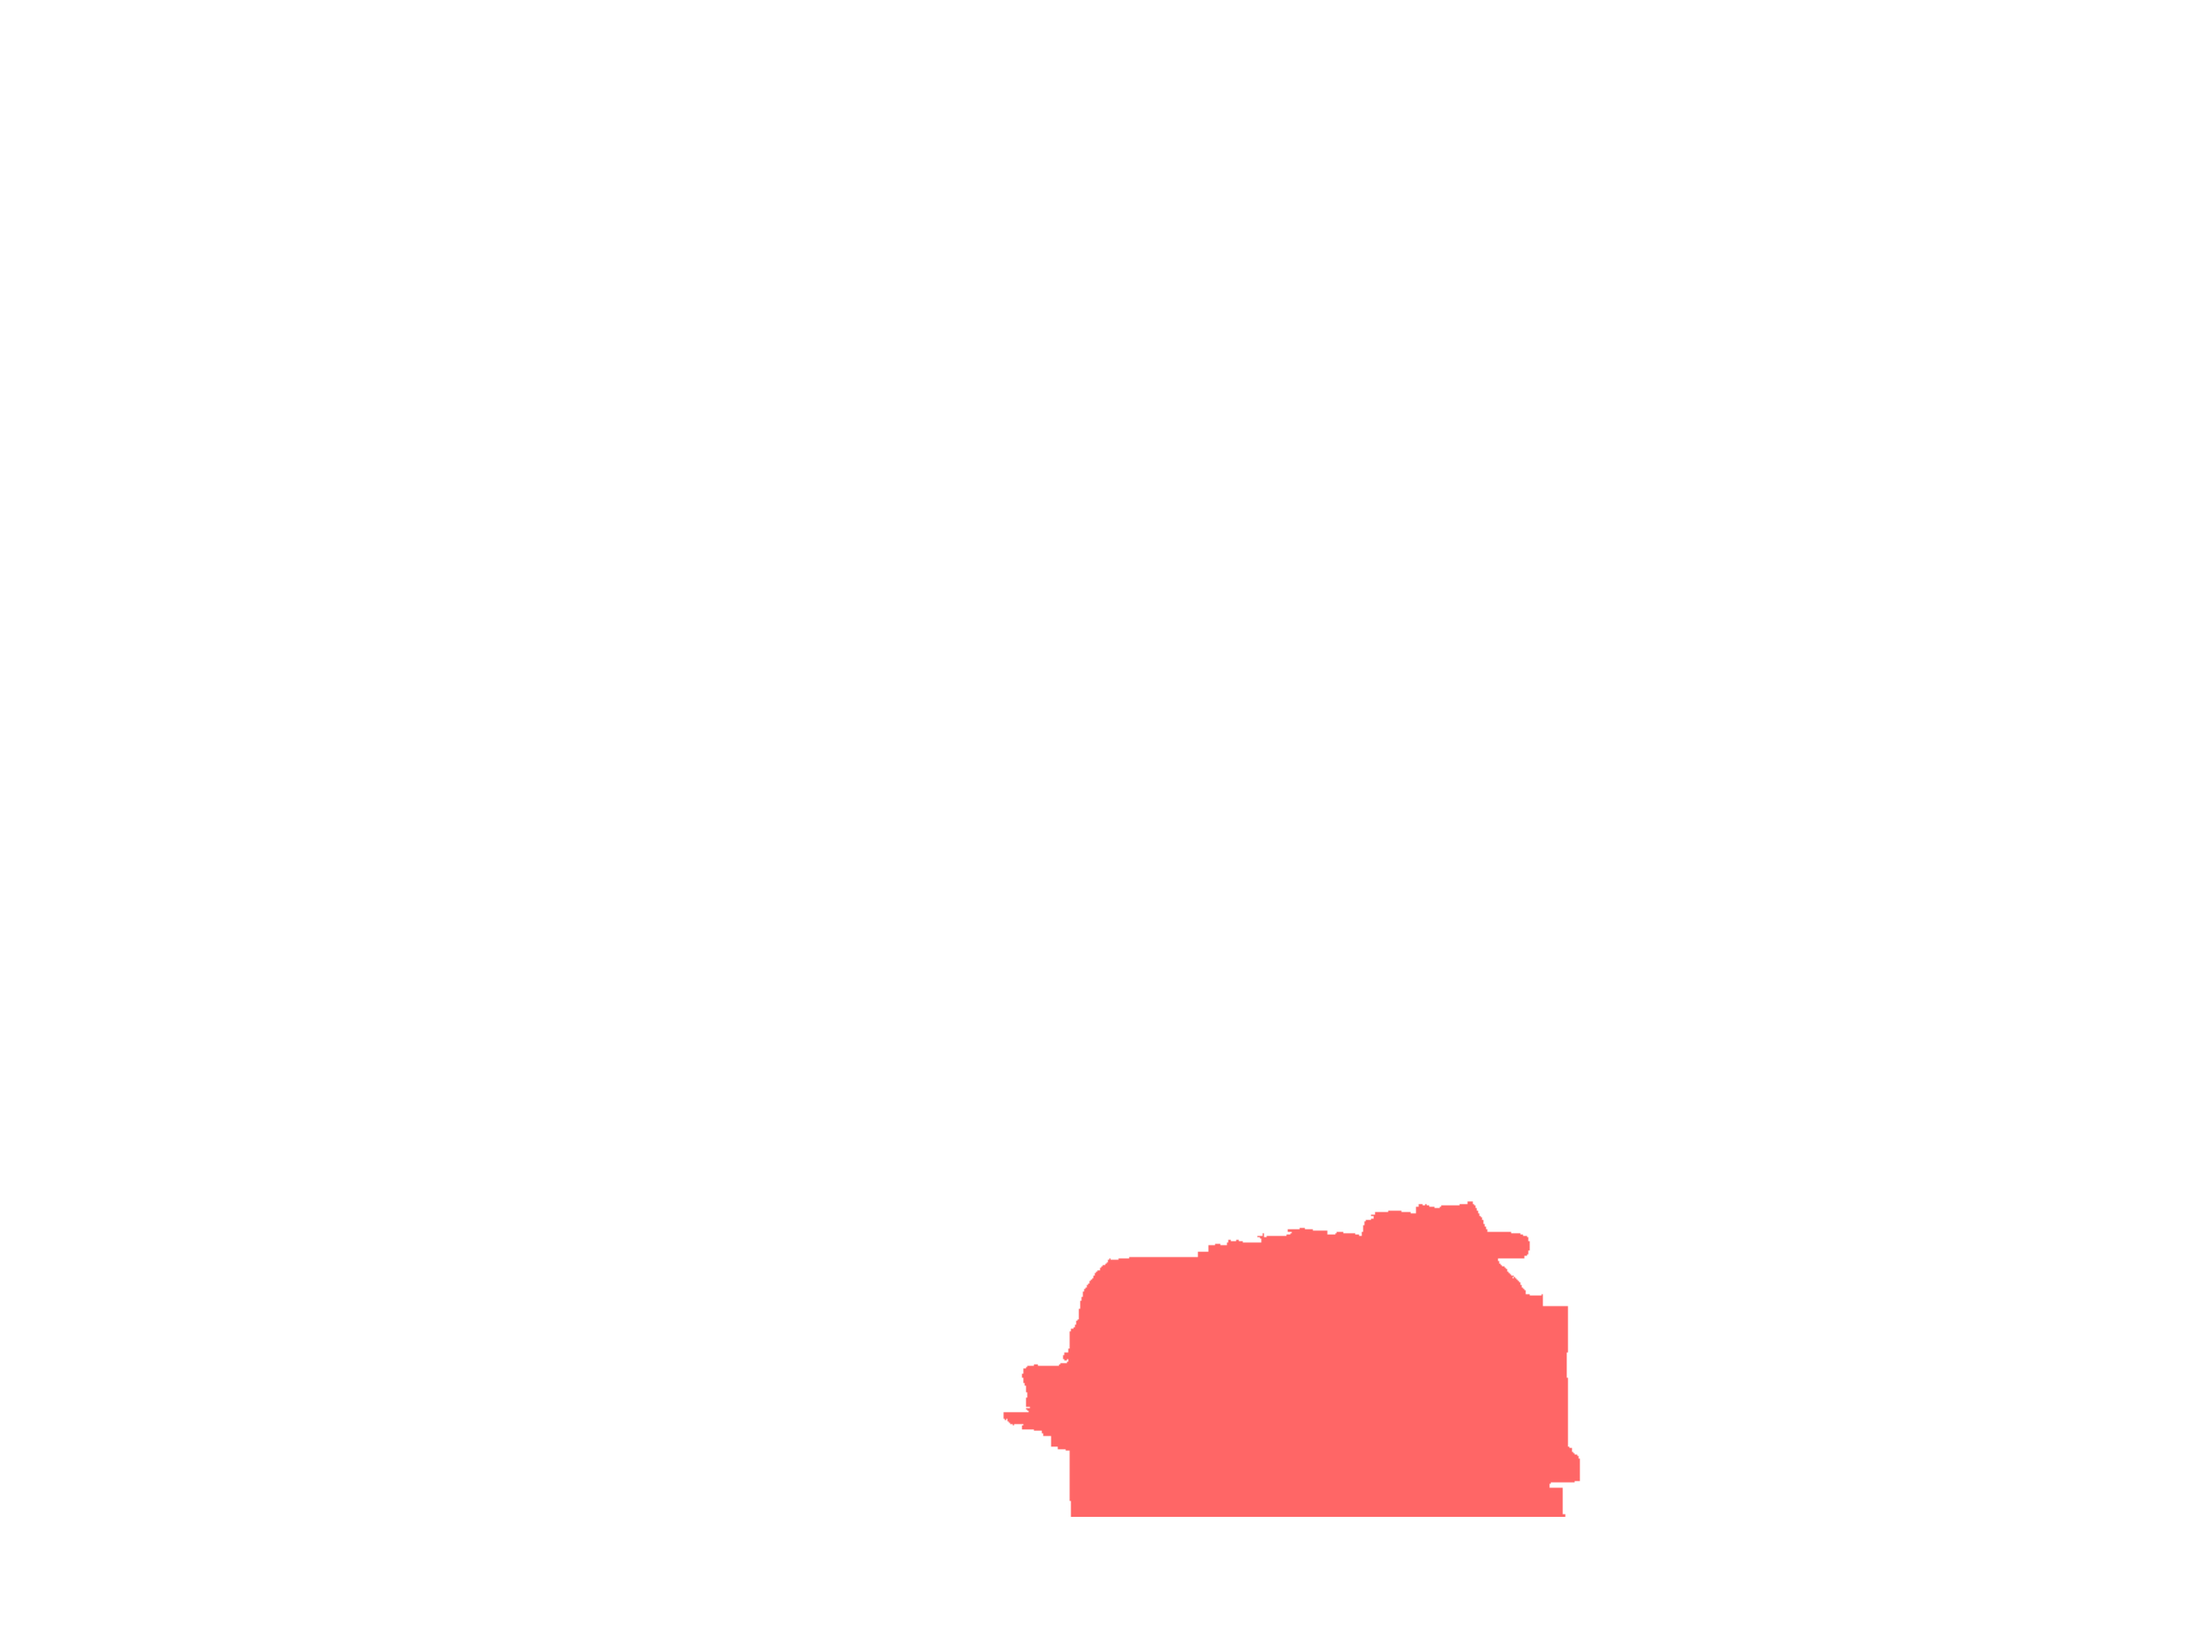
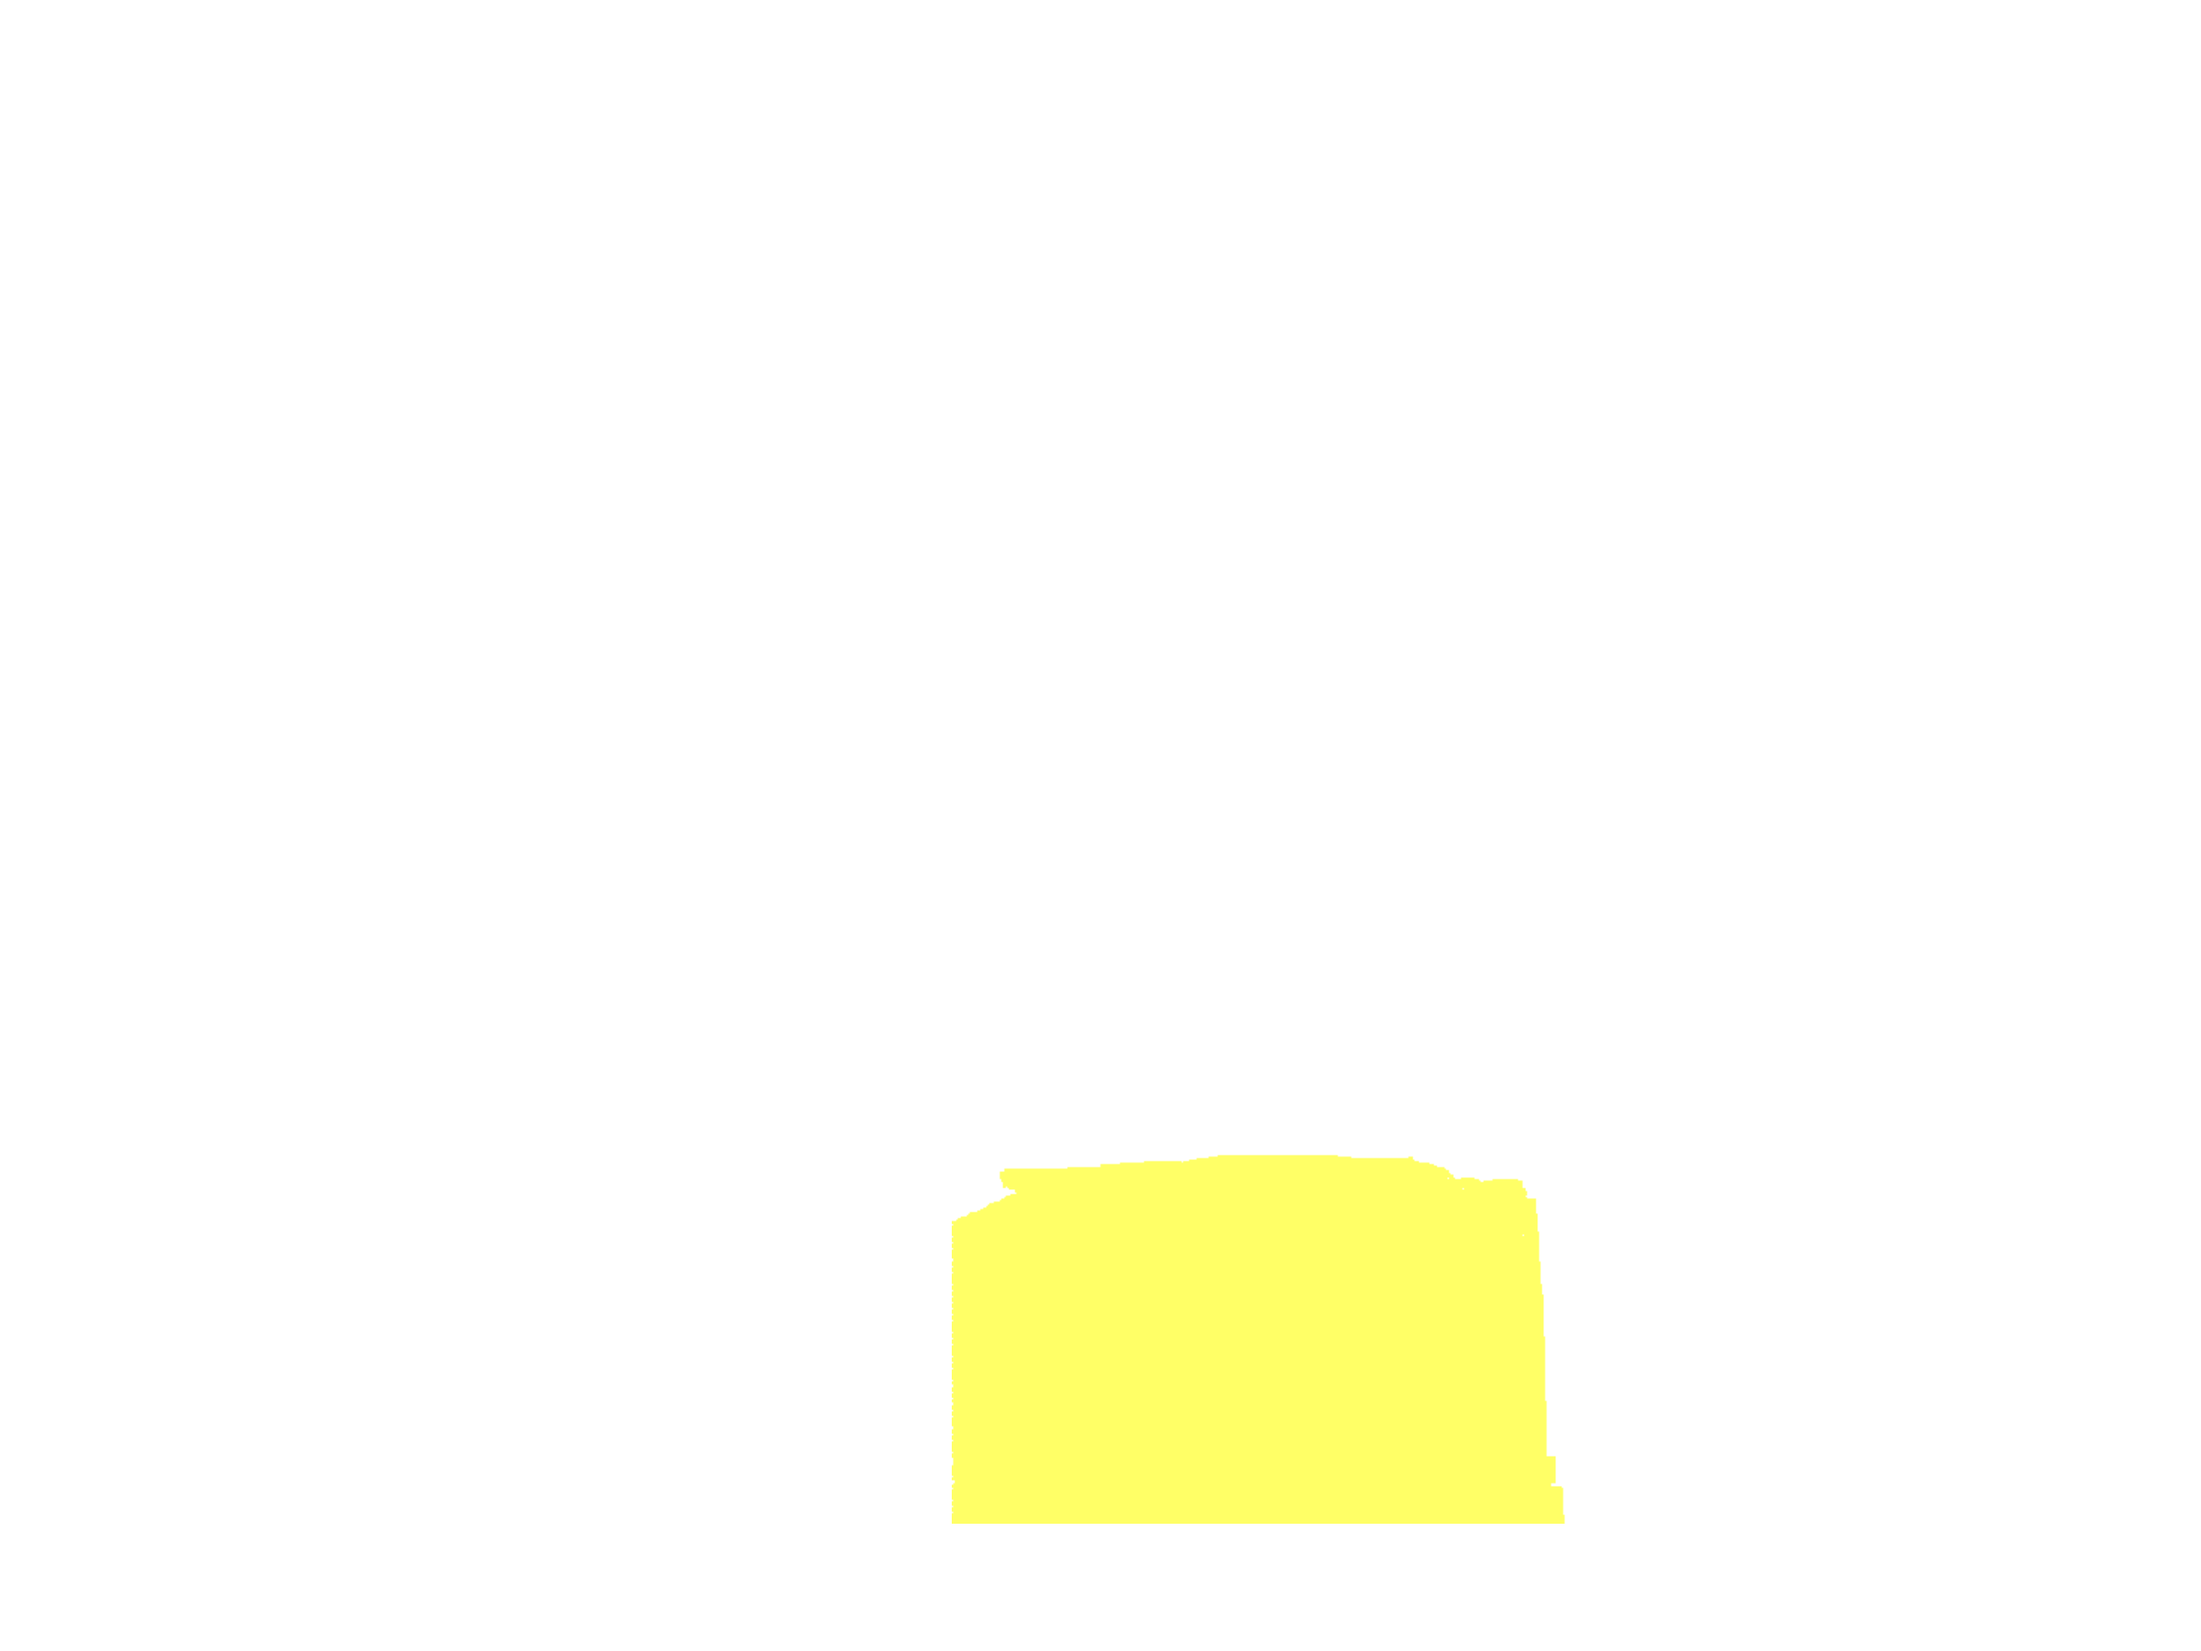
added bash script which allows to delete all annotations and masks (for testing purposes) segmentation feature is now fully available in PASCAL VOC conform XML

Changed region(s): [[0.4062, 0.6875, 0.7188, 0.9375]]

diff --git a/annotationTools/php/xml_transform.php b/annotationTools/php/xml_transform.php
@@ -241,6 +241,12 @@
             else
             {
                 $type = 2;
+                $xmin= $obj->segm->box->xmin;
+                $xmax= $obj->segm->box->xmax;
+                $ymin= $obj->segm->box->ymin;
+                $ymax= $obj->segm->box->ymax;
+                
+                $mask= $obj->segm->mask;
             }
             
             
@@ -258,7 +264,7 @@
                 fwrite($myfile, "</polygon>");
             }
             
-            if ($type==1)
+            if ($type==1 || $type==2)
             {
                 fwrite($myfile, "<bndbox>");
                 fwrite($myfile, "<xmax>".(string)$xmax."</xmax>");
@@ -267,14 +273,11 @@
                 fwrite($myfile, "<ymin>".(string)$ymin."</ymin>");
                 fwrite($myfile, "</bndbox>");
             }
-            
             if ($type==2)
             {
-                $segmented = 1;
-                fwrite($myfile, "<segment>");
-                //Todo
-                fwrite($myfile, "</segment>");
+                fwrite($myfile, "<mask>".(string)$mask."</mask>");
             }
+            
             
             fwrite($myfile, "</object>");
         }
